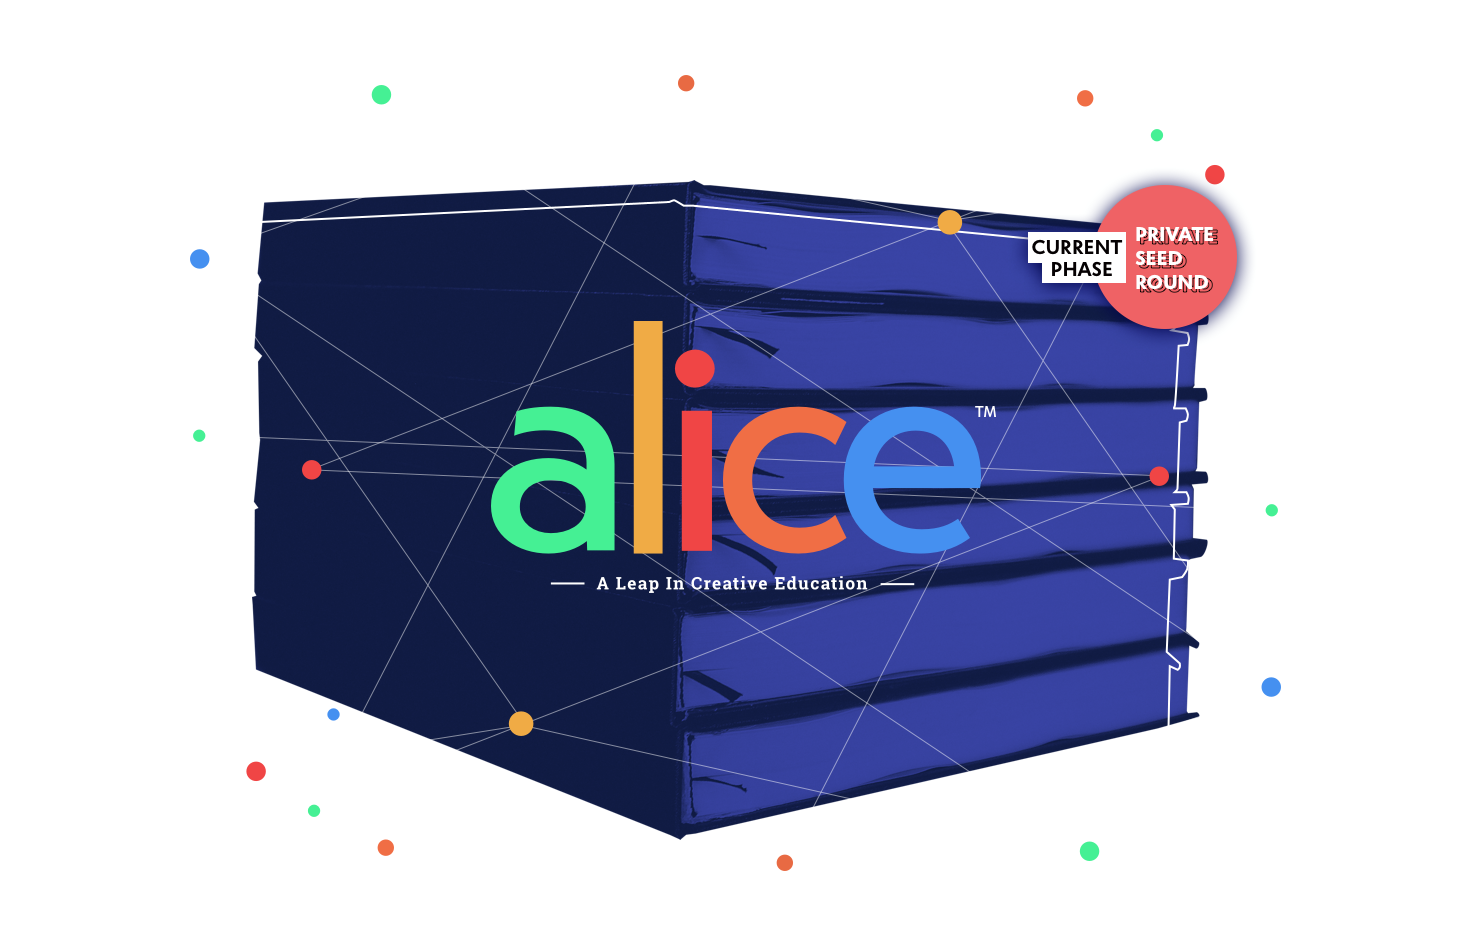
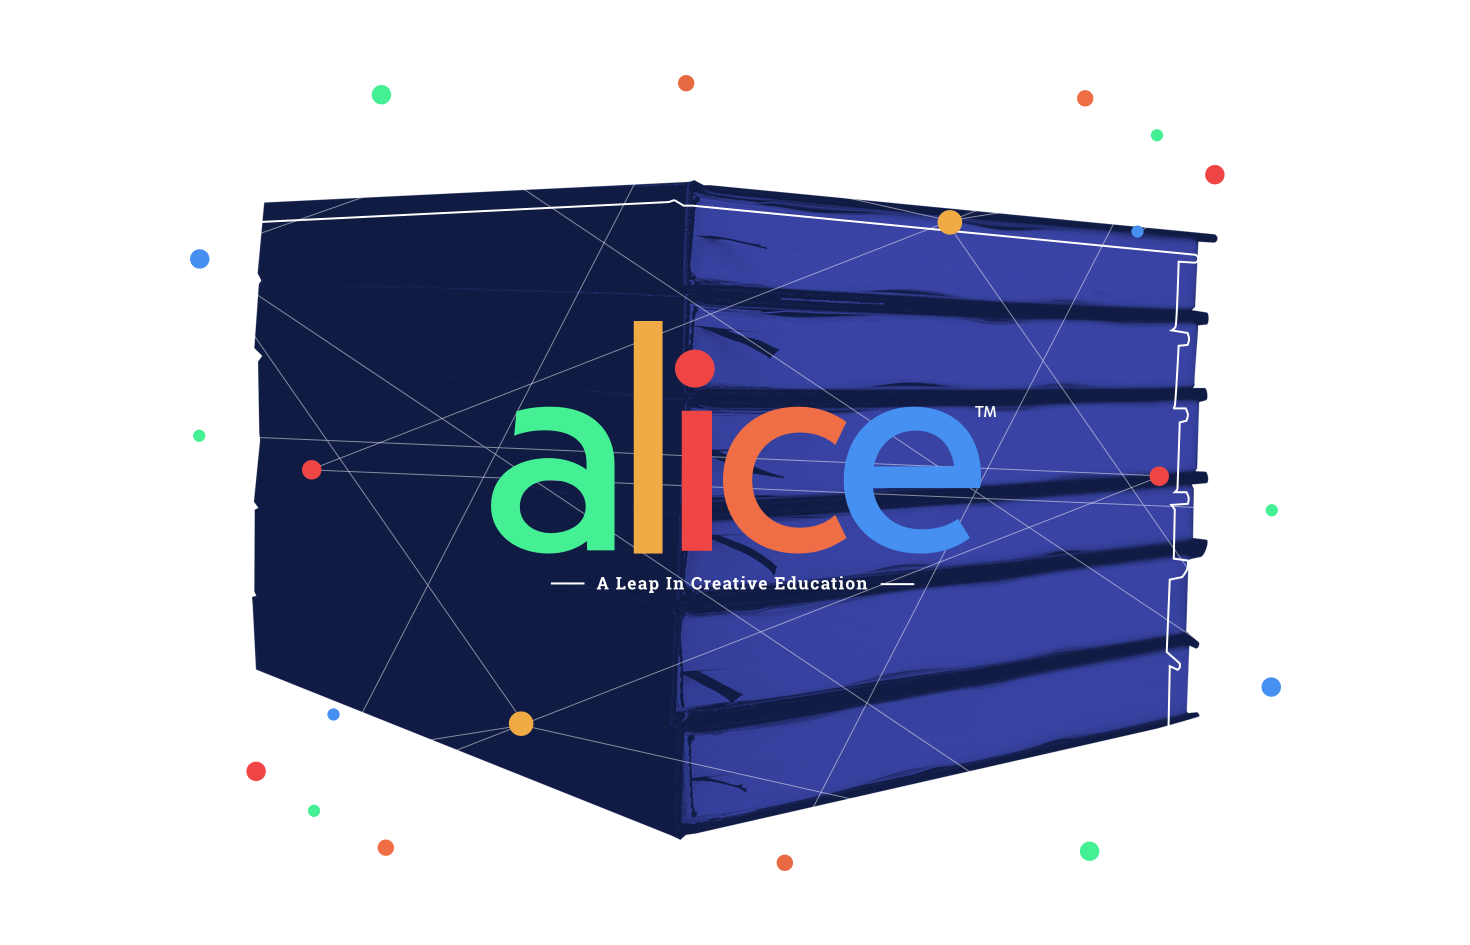
Pre-ico to Private Presale changes

Changed region(s): [[0.6735, 0.1841, 0.8571, 0.3683]]

diff --git a/index.html b/index.html
@@ -345,9 +345,9 @@
 
 				<div class="col-lg-5">
 					<div class="countdown-box text-center animated" data-animate="fadeInUp" data-delay=".3">
-						<h6>PRE-ICO Tracking  <!-- will start in --></h6> <br>
-						<!-- 
-						<div class="token-countdown d-flex align-content-stretch" data-date="2018/05/01"></div>  -->
+						<h6>Countdown to Private Presale<!-- will start in --></h6> <br>
+						
+						<div class="token-countdown d-flex align-content-stretch" data-date="2018/05/15"></div>
 						<div class="token-status-bar">
 							<div class="token-status-percent" style="width:0%;"></div>
 							<span class="token-status-point token-status-point-1" style="left:25%;">Pre-Sale</span>
@@ -427,7 +427,7 @@
 				</div>
 				<div class="single-roadmap-alt  gradiant-ctob">
 					<h6>Q2 2018:</h6>
-					<p>Pre-ICO Launch</p>
+					<p>Private Presale Launch</p>
 				</div>
 				<div class="single-roadmap-alt  gradiant-ctob">
 					<h6>Q3 2018:</h6>
@@ -2084,7 +2084,7 @@ Operations</span>
 								<a class="nav-link active" data-toggle="tab" href="#tab-1">LEAP WITH ALICE</a>
 							</li>
 							<li class="nav-item">
-								<a class="nav-link" data-toggle="tab" href="#tab-2">Pre-ICO &amp; ICO</a>
+								<a class="nav-link" data-toggle="tab" href="#tab-2">Private Presale &amp; ICO</a>
 							</li>
 							<li class="nav-item">
 								<a class="nav-link" data-toggle="tab" href="#tab-3">Tokens</a>
@@ -2159,7 +2159,7 @@ Operations</span>
 									<div class="col-md-6">
 										<div class="single-faq animated" data-animate="fadeInUp" data-delay=".3">
 											<h5>How can I participate in the ICO Token Sale?</h5>
-											<p>By sending ETH to our ALICE wallet, that will be posted during the Pre-ICO. </p>
+											<p>By sending ETH to our ALICE wallet, that will be posted during the Private Presale. </p>
 										</div>
 									</div><!-- .col  -->
 									<div class="col-md-6">
